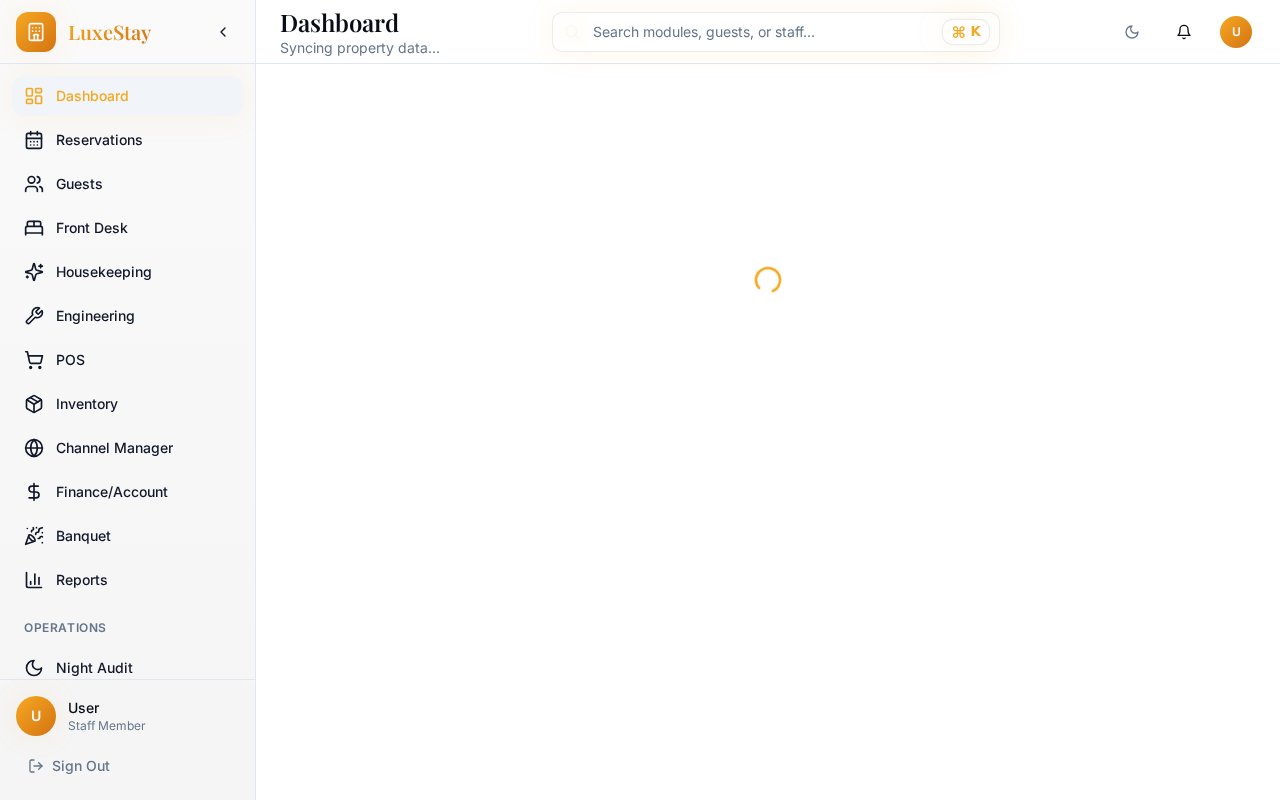
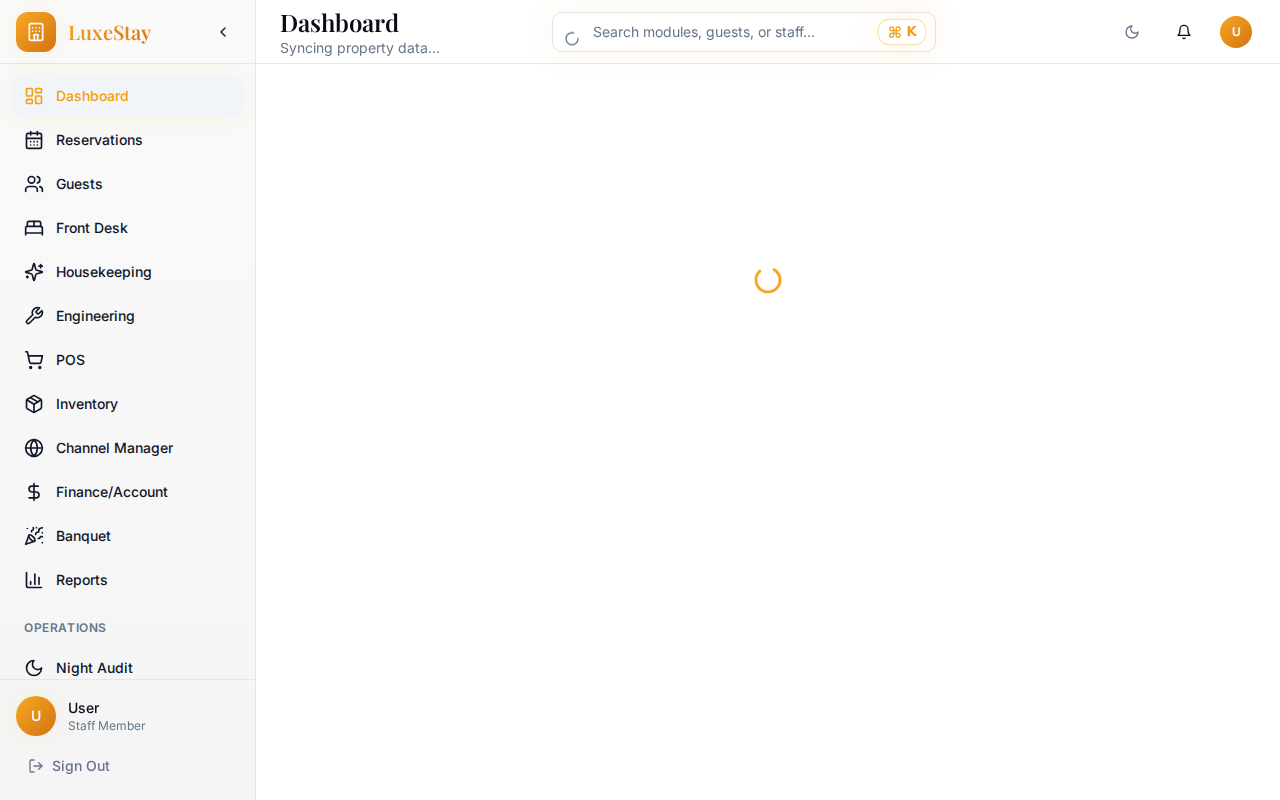
feat: implement module and page search in global header search box
- Added a comprehensive registry of application modules and pages (30+) to the global search component.
- Implemented role-based filtering for search results (e.g., hiding admin-only modules from staff).
- Standardized the search box width to a fixed 384px (lg:w-96) to maintain layout consistency.
- Added a global keyboard shortcut (Cmd/Ctrl + K) and full arrow-key navigation for search results.
- Introduced a styled "X" clear button with a circular background and improved click reliability via onMouseDown.
- Optimized input padding to ensure no text overlap with the clear button.

diff --git a/src/components/database/SchemaManager.tsx b/src/components/database/SchemaManager.tsx
@@ -1,5 +1,4 @@
-import { useState, useEffect } from "react";
-import { api } from "@/lib/api-bridge";
+import { useState } from "react";
 import { Card, CardContent, CardHeader, CardTitle, CardDescription } from "@/components/ui/card";
 import { Badge } from "@/components/ui/badge";
 import {
@@ -51,49 +50,6 @@ const MOCK_SCHEMA = [
 ];
 
 export const SchemaManager = () => {
-  const [tables, setTables] = useState<any[]>(MOCK_SCHEMA);
-  const [isLoading, setIsLoading] = useState(false);
-
-  useEffect(() => {
-    const fetchSchema = async () => {
-      setIsLoading(true);
-      try {
-        const { data, error } = await api.post('/sql', {
-          query: `
-            SELECT
-              t.table_name,
-              json_agg(json_build_object(
-                'name', c.column_name,
-                'type', c.data_type,
-                'pk', (
-                  SELECT count(*) > 0
-                  FROM information_schema.key_column_usage kcu
-                  JOIN information_schema.table_constraints tc ON kcu.constraint_name = tc.constraint_name
-                  WHERE tc.constraint_type = 'PRIMARY KEY'
-                  AND kcu.table_name = t.table_name
-                  AND kcu.column_name = c.column_name
-                )
-              )) as columns
-            FROM information_schema.tables t
-            JOIN information_schema.columns c ON t.table_name = c.table_name
-            WHERE t.table_schema = 'public'
-            AND t.table_type = 'BASE TABLE'
-            GROUP BY t.table_name;
-          `
-        });
-
-        if (!error && data) {
-          setTables(data.length > 0 ? data : MOCK_SCHEMA);
-        }
-      } catch (err) {
-        console.error("Failed to fetch schema:", err);
-      } finally {
-        setIsLoading(false);
-      }
-    };
-    fetchSchema();
-  }, []);
-
   return (
     <div className="space-y-6">
       <Tabs defaultValue="visualizer" className="w-full">
@@ -113,12 +69,12 @@ export const SchemaManager = () => {
             </div>
 
             <div className="absolute inset-0 p-8 flex flex-wrap gap-8 items-start justify-center overflow-auto custom-scrollbar">
-              {tables.map((table) => (
-                <Card key={table.table_name || table.name} className="w-64 shrink-0 shadow-lg border-primary/20 bg-card/80 backdrop-blur-sm">
+              {MOCK_SCHEMA.map((table) => (
+                <Card key={table.name} className="w-64 shrink-0 shadow-lg border-primary/20 bg-card/80 backdrop-blur-sm">
                   <div className="p-3 bg-primary/10 border-b border-primary/20 flex items-center justify-between">
                     <div className="flex items-center gap-2">
                       <TableIcon className="h-4 w-4 text-primary" />
-                      <span className="font-bold text-sm">{table.table_name || table.name}</span>
+                      <span className="font-bold text-sm">{table.name}</span>
                     </div>
                     <Badge variant="outline" className="text-[10px] py-0">{table.columns.length} cols</Badge>
                   </div>

diff --git a/src/pages/UserManagement.tsx b/src/pages/UserManagement.tsx
@@ -1,11 +1,11 @@
 import { useState } from "react";
 import { MainLayout } from "@/components/layout/MainLayout";
 import { Tabs, TabsContent, TabsList, TabsTrigger } from "@/components/ui/tabs";
-import { Users, History, ShieldAlert, Loader2, Activity } from "lucide-react";
+import { Users, History, ShieldAlert, Loader2 } from "lucide-react";
 import { useIsAdmin } from "@/hooks/useUserRole";
 import { Navigate } from "react-router-dom";
-import { useUsersWithRoles, useRoleChangeAudit, useAdminAuditLogs, useUpdateUserRole, AppRole } from "@/hooks/useUsersWithRoles";
-import { UsersTable, AuditLogTable, GeneralAuditLogTable } from "@/components/users";
+import { useUsersWithRoles, useRoleChangeAudit, useUpdateUserRole, AppRole } from "@/hooks/useUsersWithRoles";
+import { UsersTable, AuditLogTable } from "@/components/users";
 import { ErrorBoundary } from "@/components/ErrorBoundary";
 import { useAdminRealtime } from "@/hooks/useAdminRealtime";
 
@@ -19,7 +19,6 @@ const UserManagement = () => {
 
   const { data: users, isLoading: isLoadingUsers } = useUsersWithRoles(isAdmin);
   const { data: auditLogs, isLoading: isLoadingAudit } = useRoleChangeAudit(isAdmin);
-  const { data: systemLogs, isLoading: isLoadingSystemLogs } = useAdminAuditLogs(isAdmin);
   const updateRole = useUpdateUserRole();
 
   const handleRoleChange = (userId: string, oldRole: AppRole, newRole: AppRole) => {
@@ -57,11 +56,7 @@ const UserManagement = () => {
               </TabsTrigger>
               <TabsTrigger value="audit" className="gap-2 whitespace-nowrap">
                 <History className="h-4 w-4" />
-                Role Audit
-              </TabsTrigger>
-              <TabsTrigger value="activity" className="gap-2 whitespace-nowrap">
-                <Activity className="h-4 w-4" />
-                Staff Activity
+                Audit Log
               </TabsTrigger>
             </TabsList>
           </div>
@@ -87,13 +82,6 @@ const UserManagement = () => {
               onSearchChange={setAuditSearchQuery}
               onRoleFilterChange={setAuditRoleFilter}
               onDateFilterChange={setAuditDateFilter}
-            />
-          </TabsContent>
-
-          <TabsContent value="activity">
-            <GeneralAuditLogTable
-              logs={systemLogs}
-              isLoading={isLoadingSystemLogs}
             />
           </TabsContent>
         </Tabs>

diff --git a/src/pages/Finance.tsx b/src/pages/Finance.tsx
@@ -94,18 +94,16 @@ export default function Finance() {
 
   // Calculate totals and financial metrics for dashboard
   const { totalDebits, totalCredits, isBalanced, totalAssets, totalLiabilities, netIncome } = useMemo(() => {
-    const tb = trialBalance || [];
-    const debits = tb.reduce((sum, t) => sum + (t.totalDebit || 0), 0);
-    const credits = tb.reduce((sum, t) => sum + (t.totalCredit || 0), 0);
+    const debits = trialBalance.reduce((sum, t) => sum + t.totalDebit, 0);
+    const credits = trialBalance.reduce((sum, t) => sum + t.totalCredit, 0);
 
     let assets = 0;
     let liabilities = 0;
     let revenue = 0;
     let expenses = 0;
 
-    tb.forEach(item => {
-      if (!item.account) return;
-      const balance = (item.totalDebit || 0) - (item.totalCredit || 0);
+    trialBalance.forEach(item => {
+      const balance = item.totalDebit - item.totalCredit;
       const type = item.account.type;
 
       if (type === 'asset') assets += balance;
@@ -120,7 +118,7 @@ export default function Finance() {
       isBalanced: Math.abs(debits - credits) < 0.01,
       totalAssets: assets,
       totalLiabilities: Math.abs(liabilities),
-      netIncome: (Math.abs(revenue) || 0) - (expenses || 0)
+      netIncome: Math.abs(revenue) - expenses
     };
   }, [trialBalance]);
 
@@ -336,16 +334,16 @@ export default function Finance() {
             <div className="grid grid-cols-1 sm:grid-cols-2 lg:grid-cols-4 gap-4">
               <MetricCard
                 title="Total Accounts"
-                value={(accounts?.length || 0).toString()}
-                change={`${(accounts?.filter((a) => a.is_active) || []).length} active`}
+                value={accounts.length.toString()}
+                change={`${accounts.filter((a) => a.is_active).length} active`}
                 changeType="neutral"
                 icon={BookOpen}
                 delay={200}
               />
               <MetricCard
                 title="Journal Entries"
-                value={(journalEntries?.length || 0).toString()}
-                change={`${(journalEntries?.filter((e) => e.is_posted) || []).length} posted`}
+                value={journalEntries.length.toString()}
+                change={`${journalEntries.filter((e) => e.is_posted).length} posted`}
                 changeType="neutral"
                 icon={FileText}
                 delay={250}

diff --git a/src/components/layout/GlobalSearch.tsx b/src/components/layout/GlobalSearch.tsx
@@ -287,7 +287,7 @@ export function GlobalSearch() {
   };
 
   return (
-    <div className="relative w-full sm:w-72 lg:w-[480px]" ref={containerRef}>
+    <div className="relative w-full sm:w-72 lg:w-96" ref={containerRef}>
       <div className="relative w-full group/search">
         {(loadingGuests || loadingStaff) ? (
           <Loader2 className="absolute left-3 top-1/2 h-4 w-4 -translate-y-1/2 text-muted-foreground animate-spin" />
@@ -297,7 +297,7 @@ export function GlobalSearch() {
         <Input
           ref={inputRef}
           placeholder="Search modules, guests, or staff..."
-          className="w-full pl-10 pr-16 bg-secondary/40 border-border focus-visible:ring-primary shadow-sm group-focus-within/search:shadow-glow group-focus-within/search:bg-background transition-all"
+          className="w-full pl-10 pr-12 bg-secondary/40 border-border focus-visible:ring-primary shadow-sm group-focus-within/search:shadow-glow group-focus-within/search:bg-background transition-all"
           value={query}
           onChange={(e) => {
             setQuery(e.target.value);
@@ -313,12 +313,11 @@ export function GlobalSearch() {
               e.preventDefault();
               e.stopPropagation();
               setQuery("");
-              // Small delay to ensure state update doesn't conflict with focus
               requestAnimationFrame(() => {
                 inputRef.current?.focus();
               });
             }}
-            className="absolute right-3 top-1/2 -translate-y-1/2 h-7 w-7 flex items-center justify-center rounded-full hover:bg-muted active:bg-muted/80 transition-all text-muted-foreground hover:text-foreground active:scale-90 z-10"
+            className="absolute right-2 top-1/2 -translate-y-1/2 h-7 w-7 flex items-center justify-center rounded-full bg-muted/60 hover:bg-muted active:bg-muted/80 transition-all text-muted-foreground hover:text-foreground active:scale-90 z-10"
             aria-label="Clear search"
             title="Clear search"
           >

diff --git a/src/components/database/TableExplorer.tsx b/src/components/database/TableExplorer.tsx
@@ -24,40 +24,28 @@ const MOCK_TABLES = [
 export const TableExplorer = ({ searchQuery }: TableExplorerProps) => {
   const [tables, setTables] = useState(MOCK_TABLES);
   const [viewingTable, setViewingTable] = useState<string | null>(null);
-  const [isLoading, setIsLoading] = useState(false);
 
   useEffect(() => {
     const fetchTables = async () => {
-      setIsLoading(true);
       try {
-        // Querying information_schema to get real table list from Supabase
-        const { data, error } = await api.post('/sql', {
-          query: `
-            SELECT table_name
-            FROM information_schema.tables
-            WHERE table_schema = 'public'
-            AND table_type = 'BASE TABLE'
-            ORDER BY table_name;
-          `
+        const response = await fetch("http://localhost:3001/api/database/tables", {
+          headers: {
+            'Authorization': `Bearer ${localStorage.getItem('token')}`
+          }
         });
-
-        if (!error && data) {
+        if (response.ok) {
+          const data = await response.json();
           const mappedTables = data.map((t: any) => ({
             name: t.table_name,
             rows: "...",
             columns: "...",
             size: "...",
-            lastModified: "Live"
+            lastModified: "Real-time"
           }));
-          setTables(mappedTables.length > 0 ? mappedTables : MOCK_TABLES);
-        } else {
-          // Fallback to MOCK if RPC doesn't exist or errors
-          setTables(MOCK_TABLES);
+          setTables(mappedTables);
         }
       } catch (error) {
         console.error("Failed to fetch tables:", error);
-      } finally {
-        setIsLoading(false);
       }
     };
     fetchTables();

diff --git a/src/lib/api-bridge.ts b/src/lib/api-bridge.ts
@@ -61,31 +61,6 @@ export const api = {
   /**
    * Data Operations
    */
-  async post(path: string, body: any) {
-    if (USE_CUSTOM_BACKEND) {
-      const response = await fetch(`${BACKEND_URL}${path}`, {
-        method: 'POST',
-        body: JSON.stringify(body),
-        headers: {
-          'Content-Type': 'application/json',
-          'Authorization': `Bearer ${localStorage.getItem('token')}`
-        }
-      });
-      const data = await response.json();
-      return { data, error: response.ok ? null : new Error(data.message || 'API Error') };
-    } else {
-      if (path === '/sql') {
-        // Direct SQL execution is restricted in Supabase client for security.
-        // Usually, this should be done via a secure RPC if enabled.
-        // For the sake of this tool, we'll try to use a mock response or a safe subset
-        // if the 'sql' RPC doesn't exist.
-        const { data, error } = await supabase.rpc('exec_sql', { sql_query: body.query });
-        return { data, error };
-      }
-      return { data: null, error: new Error('Not implemented for Supabase') };
-    }
-  },
-
   async from(tableName: string) {
     if (USE_CUSTOM_BACKEND) {
       // Logic for custom backend with chainable query builder

diff --git a/src/App.tsx b/src/App.tsx
@@ -42,7 +42,7 @@ import StaffManagement from "./pages/StaffManagement";
 import Finance from "./pages/Finance";
 import Payments from "./pages/Payments";
 import Banquet from "./pages/Banquet";
-import DatabasePage from "./pages/Database";
+import Database from "./pages/Database";
 const queryClient = new QueryClient();
 
 const App = () => (
@@ -93,7 +93,7 @@ const App = () => (
                 <Route path="/banquet" element={<ProtectedRoute><Banquet /></ProtectedRoute>} />
                 <Route path="/dev" element={<ProtectedRoute><DevPanel /></ProtectedRoute>} />
                 <Route path="/admin-console" element={<ProtectedRoute><AdminConsole /></ProtectedRoute>} />
-                <Route path="/database" element={<ProtectedRoute><DatabasePage /></ProtectedRoute>} />
+                <Route path="/database" element={<ProtectedRoute><Database /></ProtectedRoute>} />
                 <Route path="/profile" element={<ProtectedRoute><Profile /></ProtectedRoute>} />
                 <Route path="*" element={<NotFound />} />
               </Routes>

diff --git a/src/pages/AdminConsole.tsx b/src/pages/AdminConsole.tsx
@@ -437,8 +437,8 @@ const AdminConsole = () => {
           <UsersTable
             users={users}
             isLoading={loadingUsers}
-            searchQuery={newUserData.email} // Use email state for search if needed, or better, separate state
-            onSearchChange={(q) => setNewUserData(prev => ({ ...prev, email: q }))}
+            searchQuery=""
+            onSearchChange={() => {}}
             onRoleChange={(userId, oldRole, newRole) => updateUserRole.mutate({ userId, oldRole, newRole })}
             isUpdating={updateUserRole.isPending}
           />

diff --git a/src/hooks/useFinance.ts b/src/hooks/useFinance.ts
@@ -254,7 +254,6 @@ export function useJournalEntries(filters?: {
 
 export function useCreateJournalEntry() {
   const queryClient = useQueryClient();
-  const { user } = useAuth();
 
   return useMutation({
     mutationFn: async (entry: {

diff --git a/src/components/users/index.ts b/src/components/users/index.ts
@@ -1,4 +1,3 @@
 export { RoleBadge, MultiRoleBadge } from "./RoleBadge";
 export { UsersTable } from "./UsersTable";
 export { AuditLogTable } from "./AuditLogTable";
-export { GeneralAuditLogTable } from "./GeneralAuditLogTable";
